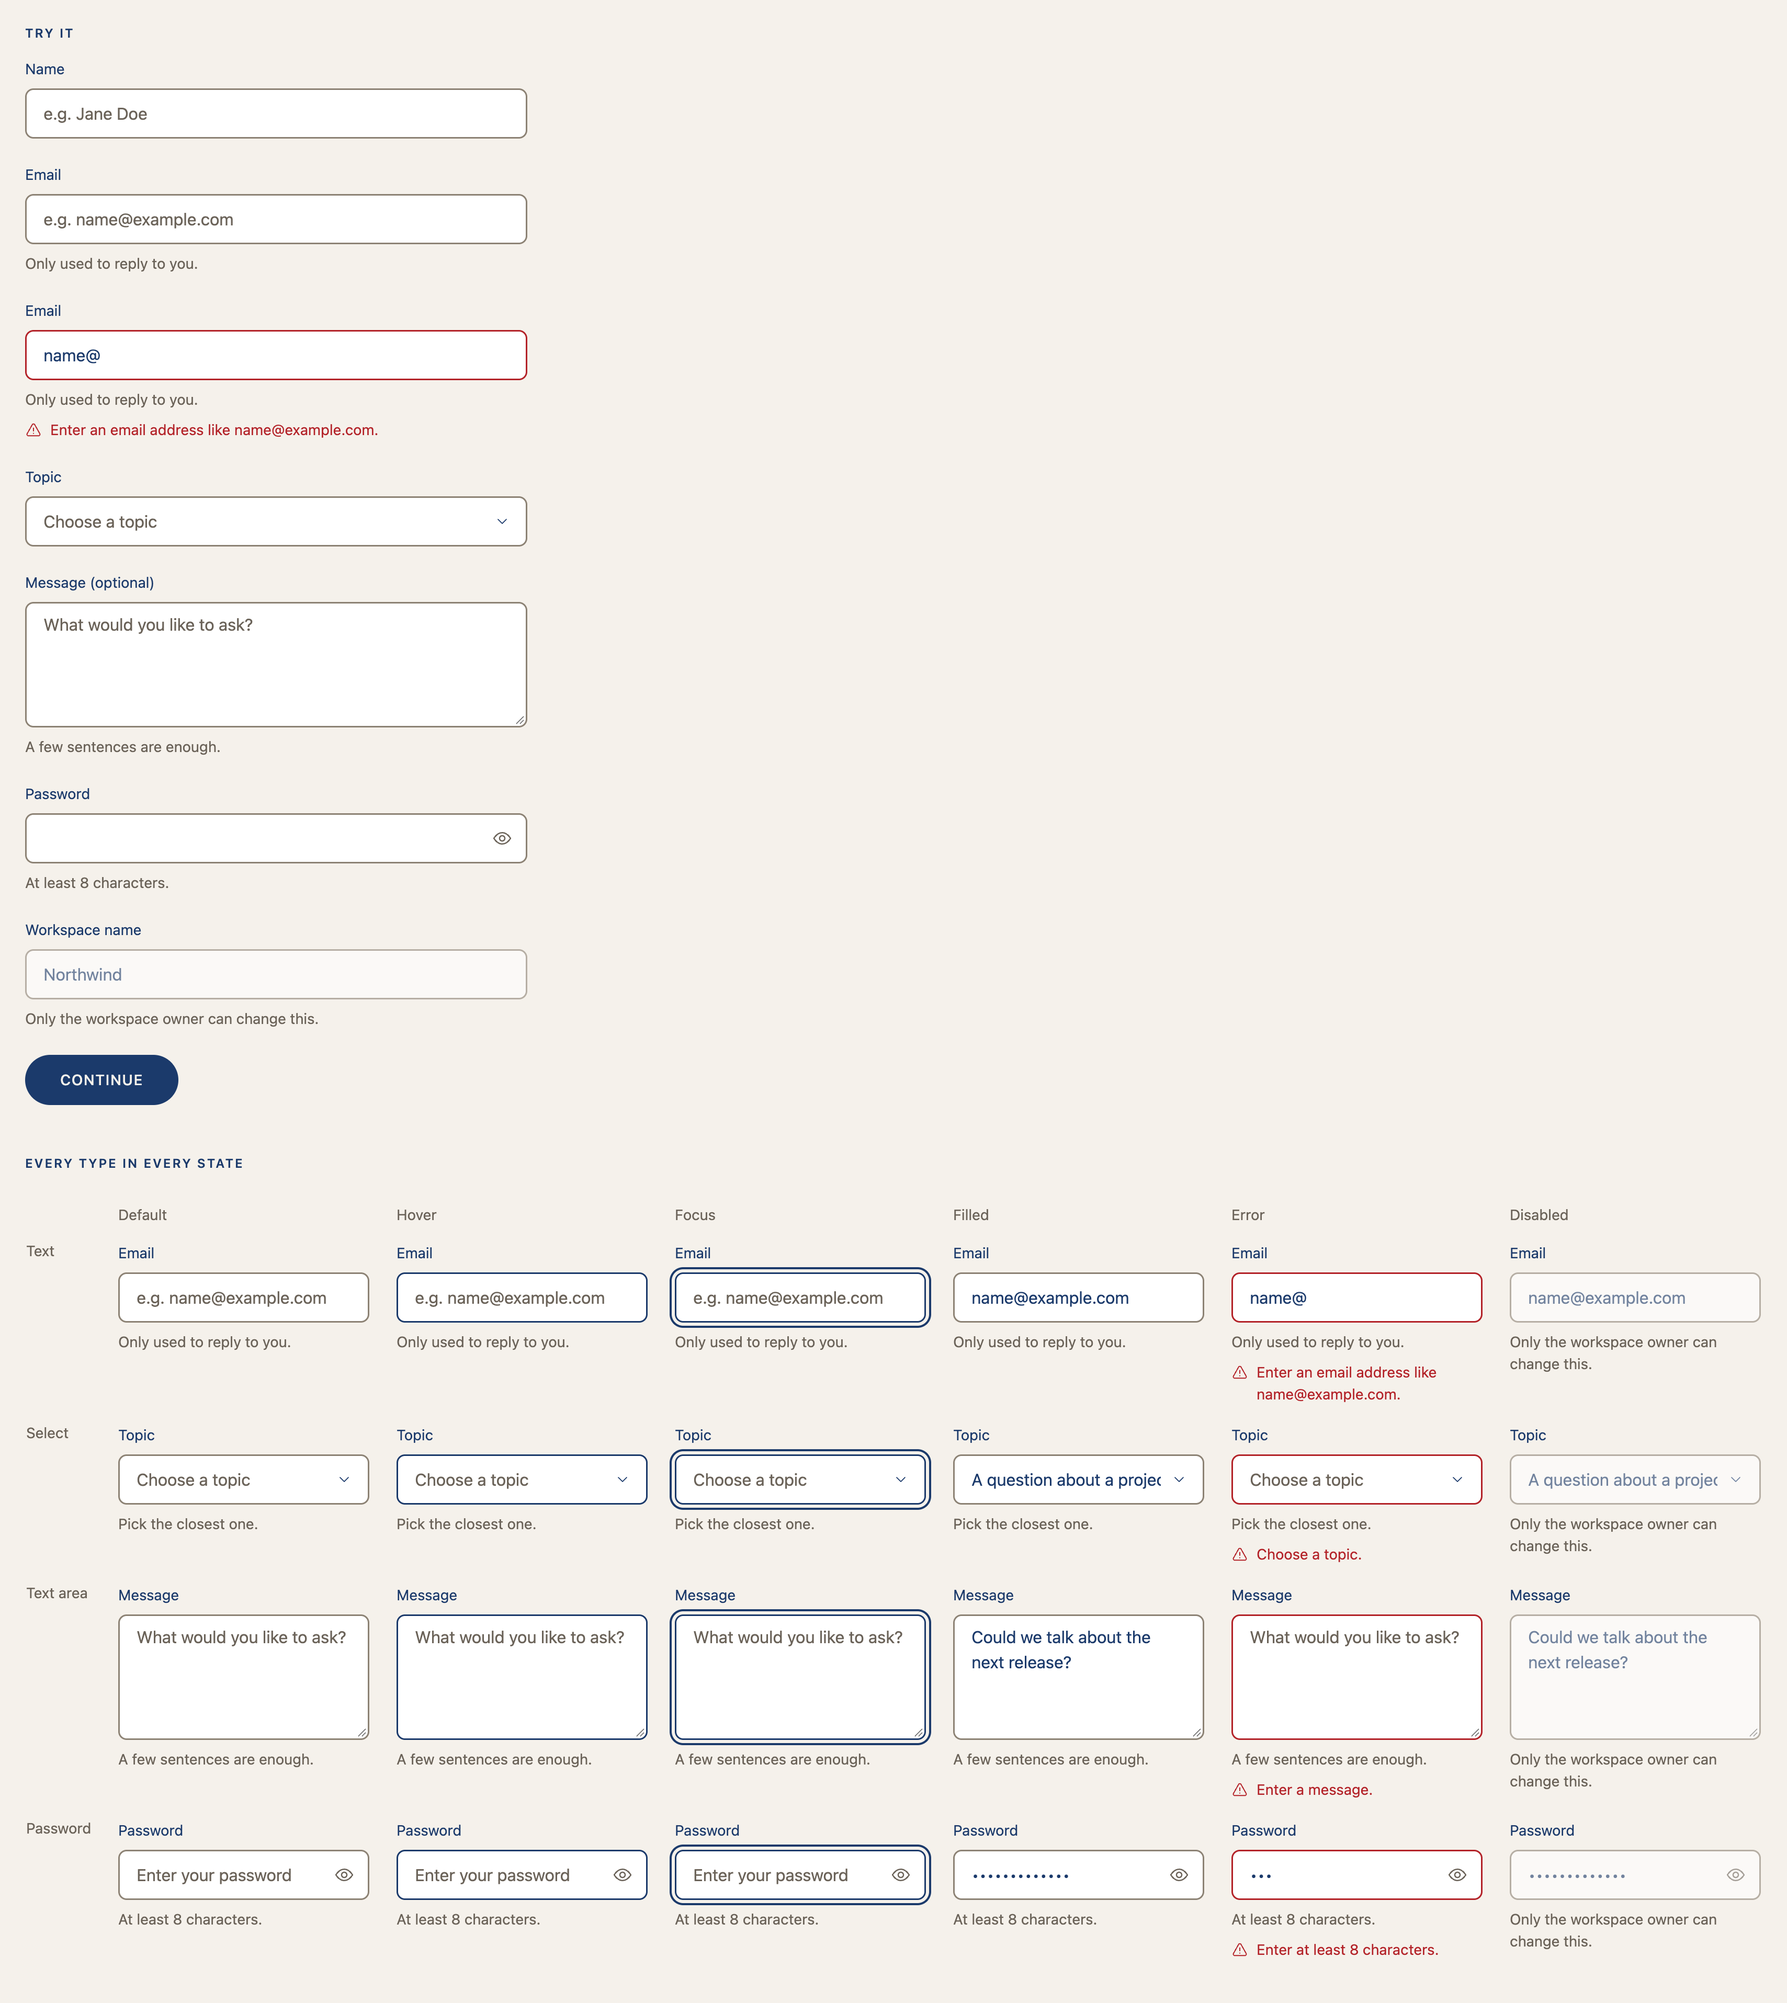
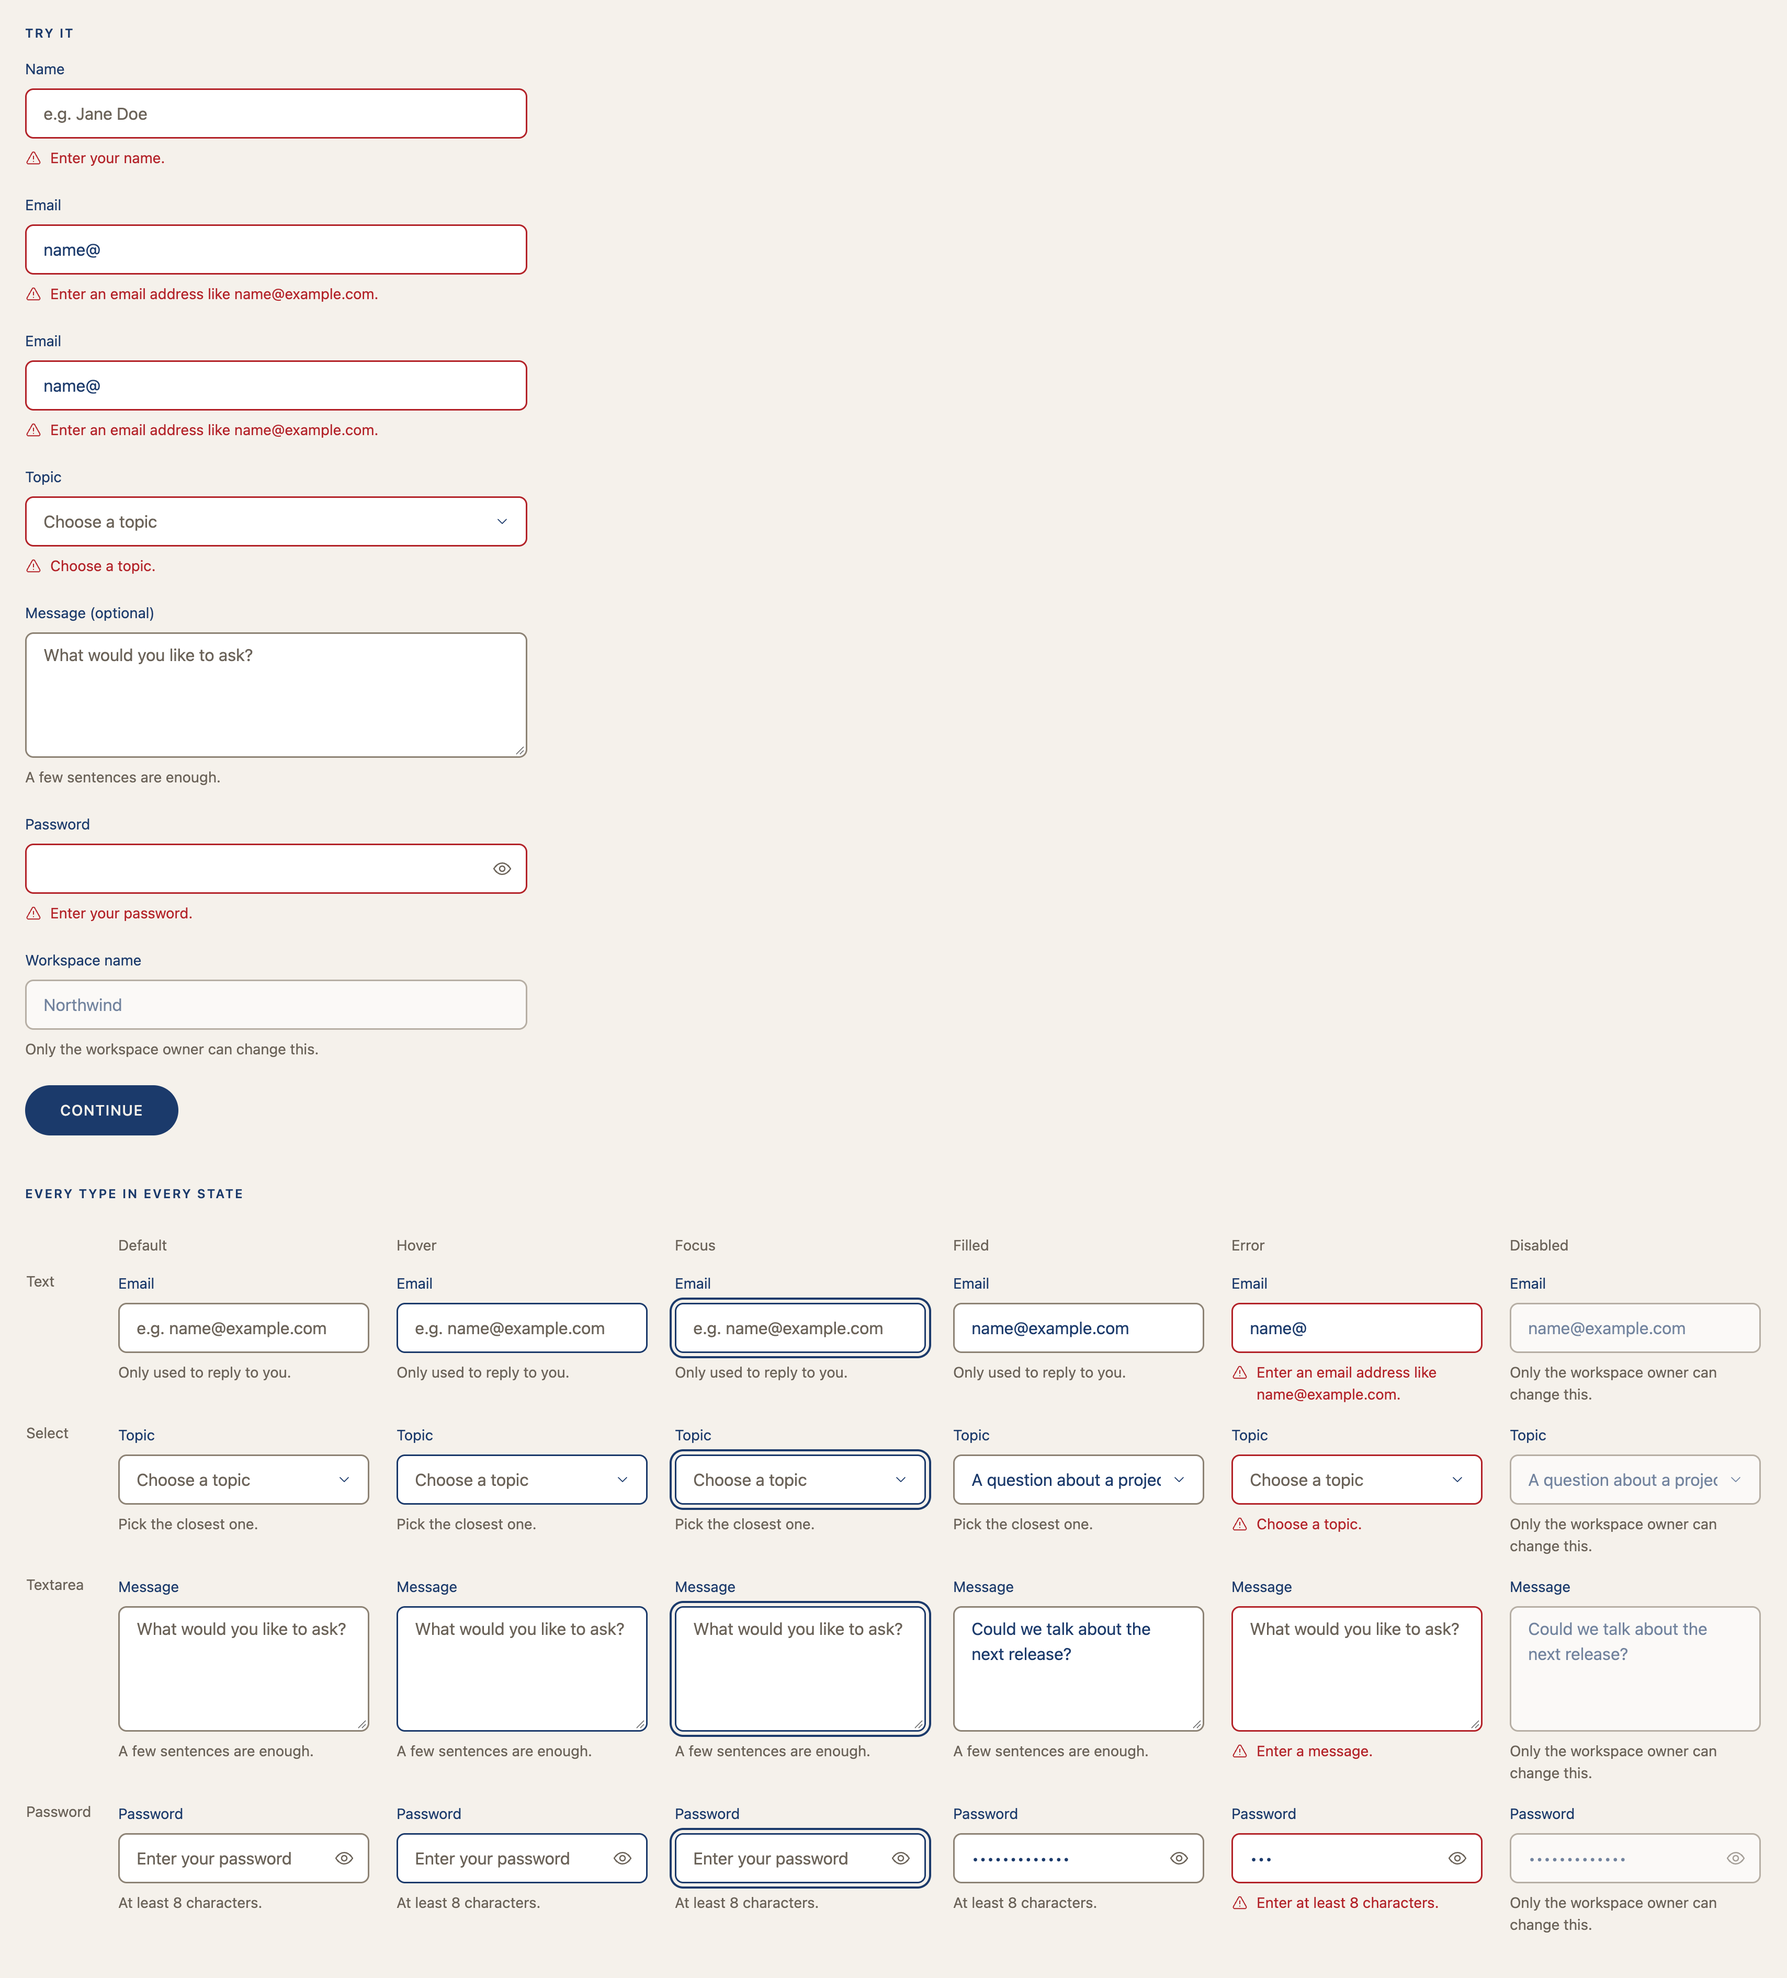
B-018 report: Input fixes

diff --git a/REPORT.md b/REPORT.md
@@ -1,147 +1,45 @@
-# B-017 · Report
+# B-018 · Report
 
 ## Commits and build
 
-- New branch `components/input` from `main` (`fcb13e5`). **`f256b70`** "Add the Input component (decisions 59, 60)", pushed. Not merged.
-- `npm run build`: exit 0, all **13** steps pass:
-  - the 4 checks;
-  - `tokens.css`;
-  - the Button and Input previews;
-  - the 6 Figma files.
-- Contrast: 46 pairs pass. Zoom: 11 sizes. Type: 11 roles. Components: 2 stylesheets, tokens only.
+- `components/input`: **`05e3cb7`** "Input: the error replaces the help text; no resize on a disabled text area (decision 61)", pushed (`f256b70..05e3cb7`). Not merged.
+- `npm run build`: exit 0, all 13 steps pass. Only `tokens/figma/input-component.js` changed among the Figma files.
 
-## Tokens
+## 1. The error replaces the help
 
-| Token | Value | Description |
-| --- | --- | --- |
-| `font.size.field` | `1rem` | 16px at every width. The value and placeholder inside form fields. Fixed at 16px because iOS Safari zooms the page when a field's text is under 16px, and body is 15px on phones. In rem, so it follows the browser's font size setting. |
-| `font.family.field` | `{font.typeface.inter}` | — |
-| `font.line-height.field` | `1.5` | — |
-| `font.weight.field` | `400` | — |
-| `font.letter-spacing.field` | `0` | — |
-| `radius.md` | 8px (unchanged) | "Panels, tables, success messages, form fields." |
+**Code (script in `docs/input.md`, run by the preview):**
+- While a field is invalid, its help text gets `hidden`, so screen readers skip it too.
+- `aria-describedby` points to the error alone.
+- When the error clears, the help shows again and `aria-describedby` points back to it.
+- A field without an error element keeps its help.
+- Tested in the preview:
+  - wrong email → `aria-describedby="email-error"`, help hidden;
+  - fixed → `aria-describedby="email-help"`, help showing, error hidden;
+  - on submit every invalid field shows its error alone.
 
-- **Font group description:** "Eleven text roles: nine for text, label for button and navigation link text, and field for the text inside form fields." It also says `field` is the one fixed size. The README Typography section says eleven too.
+**Docs:**
+- The Parts table says the help is hidden while the field shows an error.
+- The linking paragraph says `aria-describedby` lists only the text that shows.
+- The States row for Error says the message shows in place of the help.
+- The Errors section has a new point, "In place of the help".
+- The copy-paste error example now has `aria-describedby="email-2-error"` and its help with `hidden`.
 
-**How the checks cover the new role:**
-- **Type check:** covers `field` without changes (11 roles complete).
-- **Zoom check:** it required `clamp()` for every size. It now also accepts a fixed size in rem, which always zooms: no vw part. It reports "10 clamp(), 1 fixed".
-- **Figma typography script:** it reads a fixed rem size as the same value in Mobile and Desktop (16 → 16px).
-- **Contrast:** every Input pair from B-016 was already checked on the light surfaces: `color-text`, `color-text-muted`, `color-text-placeholder`, `color-error`, `color-border-input`, `color-border-strong` and `color-focus`, on background, surface (the field's fill) and surface-subtle. No pair was added. The error border is checked at 4.5:1 as text, stricter than the 3:1 a border needs.
+**Preview:** the Error column hides the help and points `aria-describedby` to the error.
 
-## What was built
+**Figma:**
+- In the 4 Error variants, the help layer is hidden. Its text stays linked to the Help property.
+- **Why it isn't one switch:** a boolean property can only set a layer's visibility to its own value, never the opposite, so Show error can't also hide the help. So in the Error variants the help layer isn't linked to Show help; Show help still works in the other 16 variants.
+- **In practice:** to see a field's help, use any state but Error. In an Error instance, turning Show error off leaves no text below the field.
+- **Run:** I ran the real `input-component.js` once. All 20 variants were updated in place with the same IDs (set `96:161`), and none were created.
+- **Read back:** each Error variant has `help` hidden and linked to the Help text only, and `error` linked to Show error.
 
-- **`components/input.css`:**
-  - **Wrapper:** `fds-field` is a one-column grid. The label is in row 1, the field in row 2, help and error below. The password button (`fds-field__action`) and the select arrow sit in the field's row, at its right edge, so no extra wrapper class is needed.
-  - **States:** `:hover`, `:focus-visible`, `[aria-invalid="true"]` and `:disabled`.
-  - **Arrow:** the select arrow is an inline SVG used as a CSS mask, so it takes `color-text`.
-  - **Text area:** `min-height: space-30`, resizes vertically only.
-  - **Motion:** no transitions at all.
-  - **Tokens only:** the component check passes. The error icon's centring on the first line is computed from tokens, not `1lh`.
-- **`docs/input.md`:** the sections the brief lists. Its two scripts (error check, show/hide) are the ones the preview runs.
-- **`docs/input-preview.html`** (generated by `scripts/build-input-preview.js`):
-  - "Try it": the docs' copy-paste HTML, run with the docs' scripts.
-  - Every type in every state: default, hover, focus, filled, error, disabled.
-  - Tested in a browser:
-    - an error appears on blur and clears live;
-    - `aria-describedby` lists the error first, then help;
-    - submit moves focus to the first invalid field;
-    - show/hide switches the field type, the button's label ("Show password" ↔ "Hide password") and the icon;
-    - every field is 48px high, the text area 120px, the value text 16px.
-- **Shared sources:** `scripts/input-icons.js` (the icons) and `scripts/input-examples.js` (the example texts for the preview and Figma). The build fails if `docs/input.md` shows icons other than `input-icons.js`.
-- **Figma (`tokens/figma/input-component.js`):**
-  - **Set:** **`96:161`**, 20 variants, Type (Text, Select, Textarea, Password) × State (Default, Hover, Focus, Error, Disabled).
-  - **Properties:** Label, Help and Error are text properties. Show help and Show error are booleans; Show error exists only in the Error variants.
-  - **Bindings:** everything is bound to variables and the `small` and `field` text styles.
-  - **Re-run:** I ran it twice. The second run updated all 20 variants with the same IDs and the same properties, and created none.
-  - **Page:** the Input page sits in Regular after Button. It reads top to bottom: title, Component set, Variants (light surface only), and each instance in Variants shows its type's example texts.
+## 2. Disabled text area
 
-## Figma runs
-
-Each file ran with its full text, unchanged:
-
-- `typography-collection.js`: created `font/size/field` (16/16) and the `field` text style, and rebuilt the Typography page with `field`.
-- `input-component.js`: run twice (above).
-- `foundations-pages.js`: the Corner radius page shows the new `radius.md` description.
-
-`color-collection.js` and `button-component.js` changed only in the page-group list inside their shared layout code. That doesn't change their pages, so I didn't rerun them.
-
-Page order read back: Colors, Typography, Spacing, Corner radius, Shadows, `---`, Button, Input.
-
-**For you:** the `radius` variable's description in Figma comes from Tokens Studio, so it shows "form fields" only after you re-import `tokens/figma/tokens-studio.json`.
+`textarea.fds-input:disabled { resize: none; }`: a keyword, so the token check passes. In the preview, the disabled text area computes `resize: none` and shows no handle; the enabled one keeps `vertical`.
 
 ## Screenshots
 
-- `input-icons.png`: the three icons at 16, 20 and 96px, and the warning in an error message. **For your approval.**
-  - **warning:** a rounded triangle with an exclamation mark.
-  - **show:** an open eye; the password is hidden, the button shows it.
-  - **hide:** the eye with a diagonal line; the password is shown, the button hides it.
-  - All three are 24-grid stroke icons with a 1.5 stroke in `currentColor`, `aria-hidden="true"`.
-- `figma-input.png`: the Figma Input page.
-- `figma-typography.png`: the Typography page with `field` in the table and the specimen.
-- `input-preview.png`: the preview page.
+- `figma-input.png`: the Figma Input page. In the Error column, the error message replaces the help in the set and in Variants.
+- `input-preview.png`: the preview after pressing Continue with empty and wrong fields. Each invalid field shows only its error. The optional message and the disabled field keep their help. In the table below, the disabled text area has no handle.
 
-## What to check, and where
-
-1. **Figma, Input page:**
-   - the component set;
-   - on an instance, the Label, Help and Error texts and the two switches in the right panel;
-   - the Variants section.
-2. **Figma, Typography page:** the `field` row (16 → 16px) and `field` in the four specimen frames.
-3. **The preview** (`docs/input-preview.html`, open it in a browser):
-   - Tab through the form, leave Name empty and tab on: the error appears.
-   - Type a name: it clears.
-   - Press Continue: focus goes to the first error.
-   - Try the eye button with a screen reader: its label changes.
-4. **On an iPhone:** tap a field in the preview. The page shouldn't zoom (16px text).
-5. **The icons** (`input-icons.png`): approve or ask for changes.
-
-## Questions
-
-Things decisions 59, 60 and B-016 didn't settle. I chose the option marked as built; each can change.
-
-1. **Field width in Figma.** The components are 320px wide by default; in code a field is as wide as its container. 320 isn't a token.
-   - A: keep 320 as Figma's default width only (built).
-   - B: another width.
-
-   **Recommendation: A.** It's only the starting width in Figma; designers resize the instance.
-2. **Placeholder colour for an empty select option.** An empty first option ("Choose a topic") takes `color-text-placeholder`, through `select:has(option[value=""]:checked)`. The B-016 audit found the site's select hint looking like a chosen value.
-   - A: keep it (built).
-   - B: the select always shows `color-text`.
-
-   **Recommendation: A.** It reads as a hint, like the placeholder in a text field.
-3. **Help and error together.** In the error state, the help text stays and the error shows below it.
-   - A: both show (built).
-   - B: the error replaces the help while it shows (M3's way).
-
-   **Recommendation: A.** The help often says what's expected ("At least 8 characters"), which is useful while fixing the error. Screen readers hear the error first either way.
-4. **Icon sizes.**
-   - A: the warning icon at `space-4` (16px), next to the 13–14px `small` text; the eye icon at `space-5` (20px), inside the 48px button (built).
-   - B: other sizes.
-
-   **Recommendation: A.** 16px matches the error text's line; 20px is easy to see in the field without crowding the value.
-5. **The show/hide button's focus ring.** It uses the system ring (2px at a 3px offset). Because the button sits at the field's edge, the ring reaches 3px past the field's border on the right, top and bottom.
-   - A: keep the system ring (built).
-   - B: an inside ring for this button only (negative offset).
-
-   **Recommendation: A.** One focus style everywhere (decision 56 and the focus token's description: "Focus is always this ring").
-6. **Figma focus ring corners.** In the browser the ring's corners follow the field's radius plus the offset (about 11px). In Figma the ring frame uses `radius/md` (8px), because a sum can't be bound to a variable.
-   - A: keep 8px (built).
-   - B: an unbound 11px.
-
-   **Recommendation: A.** It stays bound to a token; the difference is 3px at the corners.
-7. **Re-running the Figma script.** Variant IDs and properties stay, but the layers inside each variant are rebuilt on every run. An override a designer made on an inner layer of an instance (not on the Label, Help or Error properties) is reset.
-   - A: keep it (built): every run gives exactly the structure in the repo.
-   - B: update the inner layers in place, as the Button script does.
-
-   **Recommendation: B, in a later round.** It protects designers' overrides, at the cost of a longer script. With no designs using Input yet, A is safe for now.
-8. **Default texts of the properties.** "Label", "Help text" and "Error message" on the main components; the Variants section overrides them with each type's examples.
-   - A: keep the generic defaults (built).
-   - B: realistic defaults.
-
-   **Recommendation: A.** One set of defaults has to fit all four types.
-9. **Browser support.** The select arrow, the password field's right padding and the empty-option colour use `:has()`. That's Safari 15.4, Chrome 105 and Firefox 121 or later; in older browsers the select shows no arrow.
-   - A: accept it (built).
-   - B: add a wrapper class for older browsers.
-
-   **Recommendation: A.** `:has()` is in every current browser, and B adds a class the decision didn't name.
+No questions.
